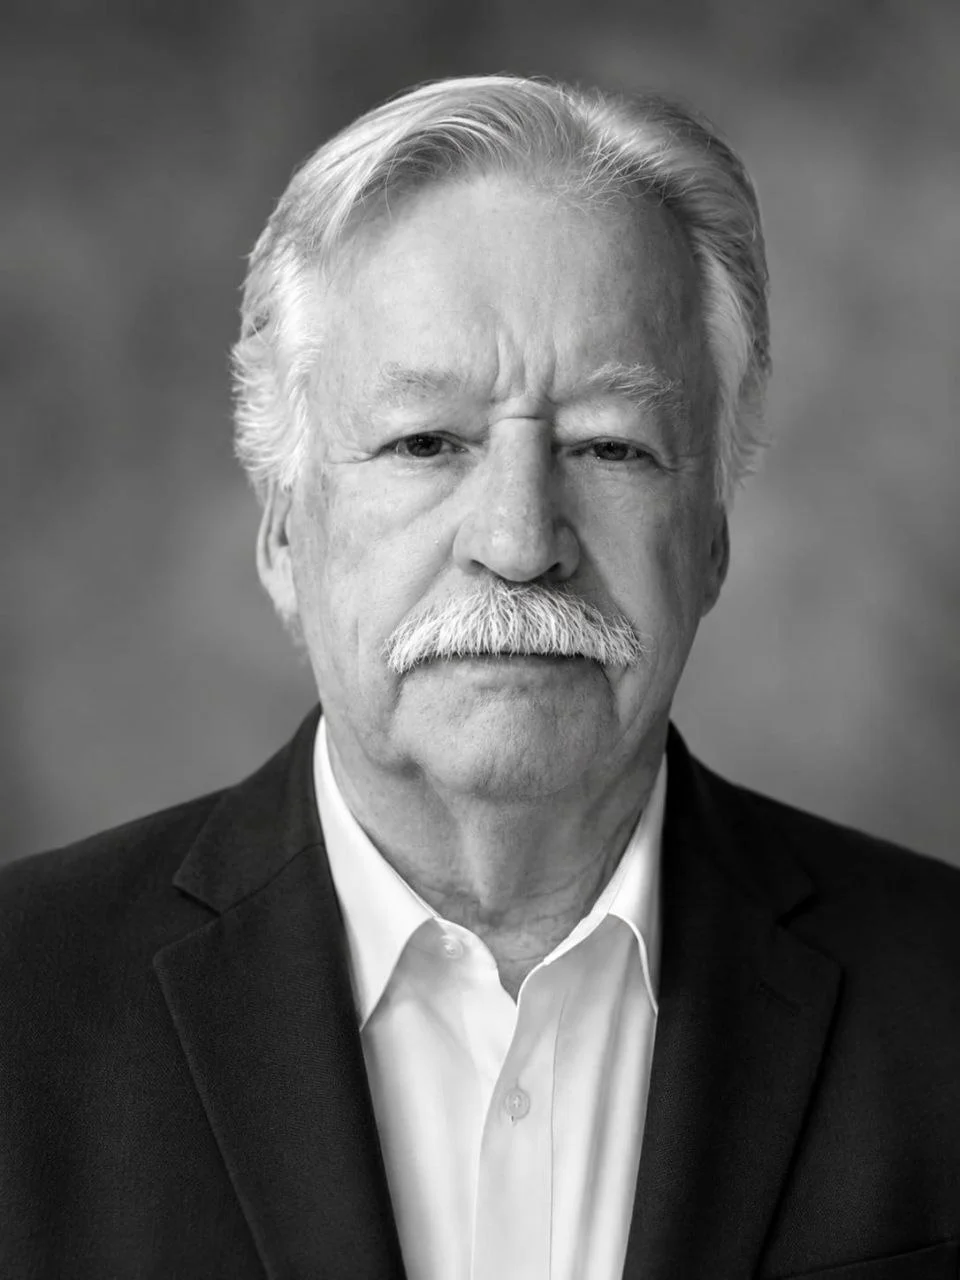
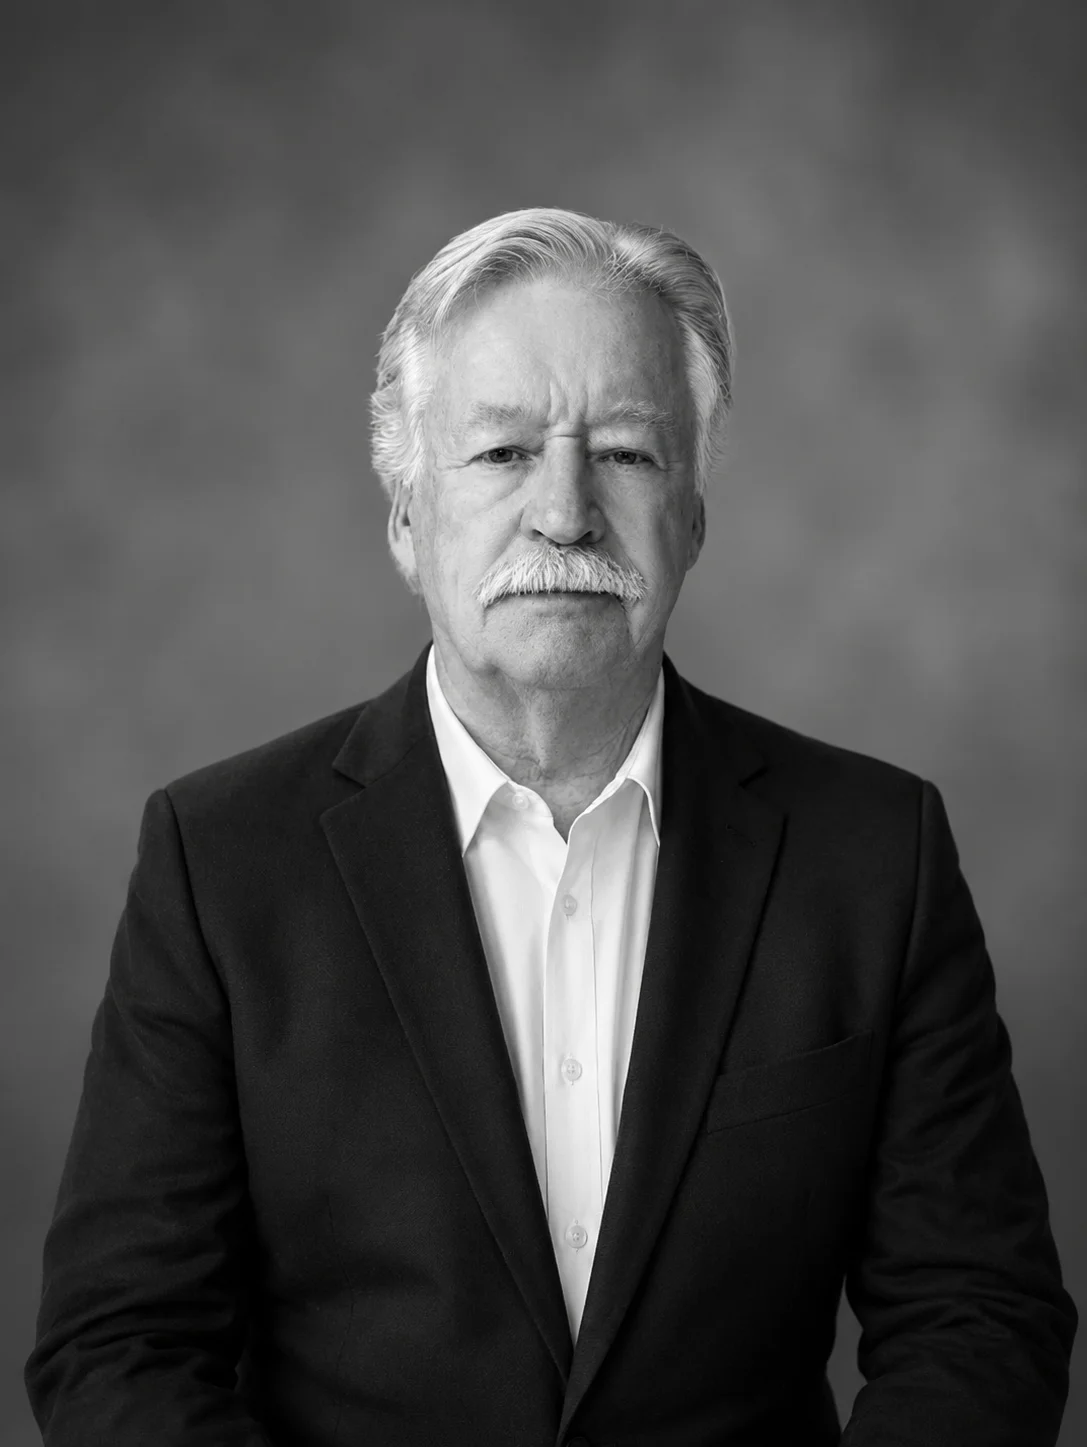
index colour transtions v2 keith

diff --git a/src/styles/components.css b/src/styles/components.css
@@ -28,8 +28,13 @@
 }
 
 .site-nav.is-scrolled {
-  /* Frosted glass -- matches projects.html ghost nav exactly */
-  background: rgba(50, 62, 72, 0.75);
+  /* Frosted glass -- matches projects.html ghost nav exactly.
+     Opacity bumped from 0.75 to 0.88 -- holds contrast during the bleed's
+     mid-grey transition states. White nav text stayed legible on full navy
+     and full white but dipped below WCAG AA when the underlay passed through
+     mid-greys (~rgb(138, 145, 150)). Higher opacity keeps the backdrop
+     reading as navy regardless of what's beneath it. */
+  background: rgba(50, 62, 72, 0.88);
   backdrop-filter: blur(12px);
   -webkit-backdrop-filter: blur(12px);
   box-shadow: 0 2px 24px rgba(0, 0, 0, 0.18); /* Elevation cue -- not decorative */
@@ -290,13 +295,11 @@
    ============================================================= */
 
 #logic {
-  /* Background removed -- section is now transparent so the .page-underlay
-     (see global.css) bleeds through. Logic is part of the WHITE chapter,
-     so the underlay sits at #FFFFFF here. */
-  /* Vertical padding expanded from clamp(3rem, 6vw, 5rem) -- the bleed
-     needs ~100vh of scroll distance to walk through its 8 color stops.
-     Growing Logic gives that travel room while keeping the section visually
-     compressed relative to taller chapters. */
+  /* Background removed -- transparent so .page-underlay bleeds through.
+     Logic is part of the WHITE chapter; underlay sits at #FFFFFF here. */
+  /* Vertical padding expanded -- the bleed needs ~100vh of scroll distance
+     to walk through its 8 color stops. Generous symmetric padding gives
+     travel room above and below the centered content stack. */
   padding: clamp(8rem, 18vw, 14rem) clamp(1.25rem, 5vw, 4rem);
   display: flex;
   align-items: center;
@@ -305,13 +308,22 @@
 .logic-inner {
   max-width: 1200px;
   margin: 0 auto;
+  /* Vertical centered stack -- 90% on top, statement below, tagline below.
+     Restructured from the previous 2-column desktop layout per "Option B":
+     A&I-style centered composition with type doing the work via scale.
+     Mobile inherits this same centered stack -- nothing to override. */
   display: flex;
   flex-direction: column;
+  align-items: center;
+  text-align: center;
   gap: clamp(1.5rem, 3vw, 2.5rem);
 }
 .logic-stat {
   font-family: var(--font-header);
-  font-size: clamp(6rem, 16vw, 13rem);
+  /* Scaled up significantly from clamp(6rem, 16vw, 13rem). Now reads as the
+     largest typographic moment in the white chapter. Mobile floor of 8.5rem
+     (136px) keeps it dominant without overflowing a 360px viewport. */
+  font-size: clamp(8.5rem, 22vw, 18rem);
   font-weight: 900;
   line-height: 0.9;
   color: var(--gl-green-vivid);
@@ -320,44 +332,36 @@
   white-space: nowrap;
 }
 .logic-text {
+  /* Vertical inline below the 90%. Both lines centered. */
   display: flex;
   flex-direction: column;
-  gap: clamp(1rem, 2vw, 1.75rem);
+  gap: clamp(0.75rem, 1.5vw, 1.25rem);
+  align-items: center;
+  max-width: 760px;
 }
 .logic-statement {
   font-family: var(--font-header);
-  font-size: clamp(1.5rem, 3vw, 2.5rem);
+  /* Scaled up from clamp(1.5rem, 3vw, 2.5rem). Now large enough to carry
+     real weight beneath the 90% without competing with it. */
+  font-size: clamp(2rem, 5vw, 4rem);
   font-weight: 700;
-  line-height: 1.25;
-  color: var(--gl-navy); /* Flipped from white -- Logic now sits in white chapter */
+  line-height: 1.2;
+  color: var(--gl-navy); /* Logic sits in white chapter -- navy text */
   margin: 0;
 }
 .logic-resolve {
   font-family: var(--font-body);
   font-size: var(--text-body-lg);
-  font-weight: 500;
+  font-weight: 600;
   line-height: 1.6;
-  color: var(--gl-green-vivid);
+  color: var(--gl-navy); /* Flipped from green -- per direction, all Logic body text is dark */
   margin: 0;
-  letter-spacing: 0.02em;
+  letter-spacing: 0.08em;
   text-transform: uppercase;
 }
-@media (min-width: 768px) {
-  .logic-inner {
-    flex-direction: row;
-    align-items: center;
-    justify-content: center;
-    gap: clamp(2rem, 3vw, 3rem);
-  }
-  .logic-stat {
-    flex: 0 0 auto;
-    width: clamp(240px, 32vw, 420px);
-  }
-  .logic-text {
-    flex: 1;
-    max-width: 560px;
-  }
-}
+/* No desktop row layout override -- Logic stays a vertical centered stack
+   across all viewports. Removed the previous @media (min-width: 768px) block
+   that split it into 2 columns; that layout fought the new composition. */
 
 
 /* =============================================================
@@ -461,8 +465,10 @@
      Previously hardcoded to #5C9387 (the original brand teal); that color
      is now retired from section-level use. Green lives only as accent
      (buttons, hover states) per the navy/white two-tone composition. */
-  /* Tighter than full section-pad-y -- proof reads as a stats band, not a hero */
-  padding: clamp(2.5rem, 5vw, 4rem) clamp(1.25rem, 5vw, 4rem);
+  /* Compressed padding -- shared token with #validation and #testimonials
+     for consistent rhythm across the three "interstitial" sections. */
+  padding-block: var(--section-pad-y-compressed);
+  padding-inline: clamp(1.25rem, 5vw, 4rem);
 }
 
 .proof-inner {
@@ -915,8 +921,10 @@
 #validation {
   /* Background removed -- transparent so .page-underlay bleeds through.
      Validation opens the final WHITE chapter; underlay sits at #FFFFFF here. */
-  padding-block-start: var(--section-pad-y);
-  padding-block-end: var(--space-xl);
+  /* Compressed padding -- shared token with #proof and #testimonials for
+     consistent rhythm. Symmetrical top/bottom (previously top was
+     --section-pad-y and bottom was --space-xl, creating awkward asymmetry). */
+  padding-block: var(--section-pad-y-compressed);
   overflow: hidden;
 }
 
@@ -1261,12 +1269,16 @@
   /* Background removed -- transparent so .page-underlay bleeds through.
      Testimonials FLIPPED from navy to white chapter; underlay sits at #FFFFFF.
      All white-on-navy text below has been re-tuned for white surface. */
-  /* Elegant strip -- minimal vertical presence, quotes land and move on */
-  padding-block: clamp(2rem, 4vw, 3rem);
+  /* Compressed padding -- shared token with #proof and #validation for
+     consistent rhythm across the three interstitial sections. */
+  padding-block: var(--section-pad-y-compressed);
 }
 
 .testimonials__carousel {
-  max-width: 760px;
+  /* Widened from 760px to 920px -- testimonials previously felt squished
+     on the white underlay. Wider carousel gives quotes room to read as
+     editorial pull-quotes rather than constrained captions. */
+  max-width: 920px;
   margin-inline: auto;
   padding-inline: var(--space-lg);
 }
@@ -1293,8 +1305,11 @@
 .testimonial::before {
   content: '\201C';
   font-family: var(--font-header);
-  /* Reduced from clamp(4rem,6vw,6rem) -- decorative, not focal */
-  font-size: clamp(2rem, 3vw, 2.75rem);
+  /* Bumped from clamp(2rem, 3vw, 2.75rem). Previous size was tuned for navy
+     background where high contrast amplified the visual weight. On white,
+     the green mark needs more scale to register as the editorial opening
+     it's meant to be. */
+  font-size: clamp(3rem, 4vw, 4.5rem);
   line-height: 1;
   color: var(--gl-green-vivid);
   display: block;

diff --git a/js/main.js b/js/main.js
@@ -848,11 +848,17 @@ if (typeof gsap !== 'undefined' && typeof ScrollTrigger !== 'undefined') {
    STOPS
    8 mathematically interpolated stops from --gl-white to --gl-navy
    (via meyerweb.com/eric/tools/color-blend). Each bleed timeline
-   walks through these in sequence over 100vh of scroll distance.
+   walks through these in sequence over the scroll trigger window.
 
-   CALIBRATION POINTS (adjust here if pacing needs tuning live)
-   - start / end positions on each ScrollTrigger
-   - The 8 hex values are sourced from tokens.css; change them there
+   END POSITION TUNING
+   Bleeds end at 'top 60%' (NOT 'top top'). This means the underlay
+   reaches its target chapter color when the triggering section's
+   top reaches 60% down the viewport -- well before the section's
+   content is centered. Previously ended at 'top top' which meant
+   the bleed was still in progress while the user was reading the
+   section's main content (90% counter visible during white bleed,
+   proof numbers visible during navy bleed). 60% end position lets
+   the color land before content arrives.
    ============================================================ */
 
 if (typeof gsap !== 'undefined' && typeof ScrollTrigger !== 'undefined') {
@@ -912,22 +918,24 @@ if (typeof gsap !== 'undefined' && typeof ScrollTrigger !== 'undefined') {
     /* ----------------------------------------------------------------
        BLEED 1 -- navy → white
        Fires as #logic enters the viewport. Walks stops 8 → 1.
-       Start when Logic's top hits bottom of viewport; end when
-       Logic's top reaches top. One viewport-height of travel.
+       Ends at 'top 60%' -- color lands before the 90% is centered.
        ---------------------------------------------------------------- */
-    buildBleed('#logic', 'top bottom', 'top top', 7, 0);
+    buildBleed('#logic', 'top bottom', 'top 60%', 7, 0);
 
     /* ----------------------------------------------------------------
        BLEED 2 -- white → navy
        Fires as #proof enters the viewport. Walks stops 1 → 8.
+       Ends at 'top 60%' -- color lands before proof numbers start
+       counting up.
        ---------------------------------------------------------------- */
-    buildBleed('#proof', 'top bottom', 'top top', 0, 7);
+    buildBleed('#proof', 'top bottom', 'top 60%', 0, 7);
 
     /* ----------------------------------------------------------------
        BLEED 3 -- navy → white
        Fires as #validation enters the viewport. Walks stops 8 → 1.
+       Ends at 'top 60%' -- color lands before marquee fully arrives.
        ---------------------------------------------------------------- */
-    buildBleed('#validation', 'top bottom', 'top top', 7, 0);
+    buildBleed('#validation', 'top bottom', 'top 60%', 7, 0);
 
     /* Tell ScrollTrigger to recalculate positions once the bleeds are
        wired -- ensures the timelines pick up the correct scroll offsets

diff --git a/src/styles/tokens.css b/src/styles/tokens.css
@@ -94,6 +94,12 @@
 
 --section-pad-y: clamp(3rem, 6vw, 6rem);
 
+/* Compressed section padding -- used for "interstitial" sections that need
+   to feel like beats, not full chapters. Currently applied to:
+   #proof, #validation, #testimonials. Single shared value so rhythm stays
+   consistent across all three. */
+--section-pad-y-compressed: clamp(2.5rem, 5vw, 4rem);
+
   /* Minimum touch target -- WCAG 2.1 / senior demographic requirement */
   --hit-min: 48px;
 
